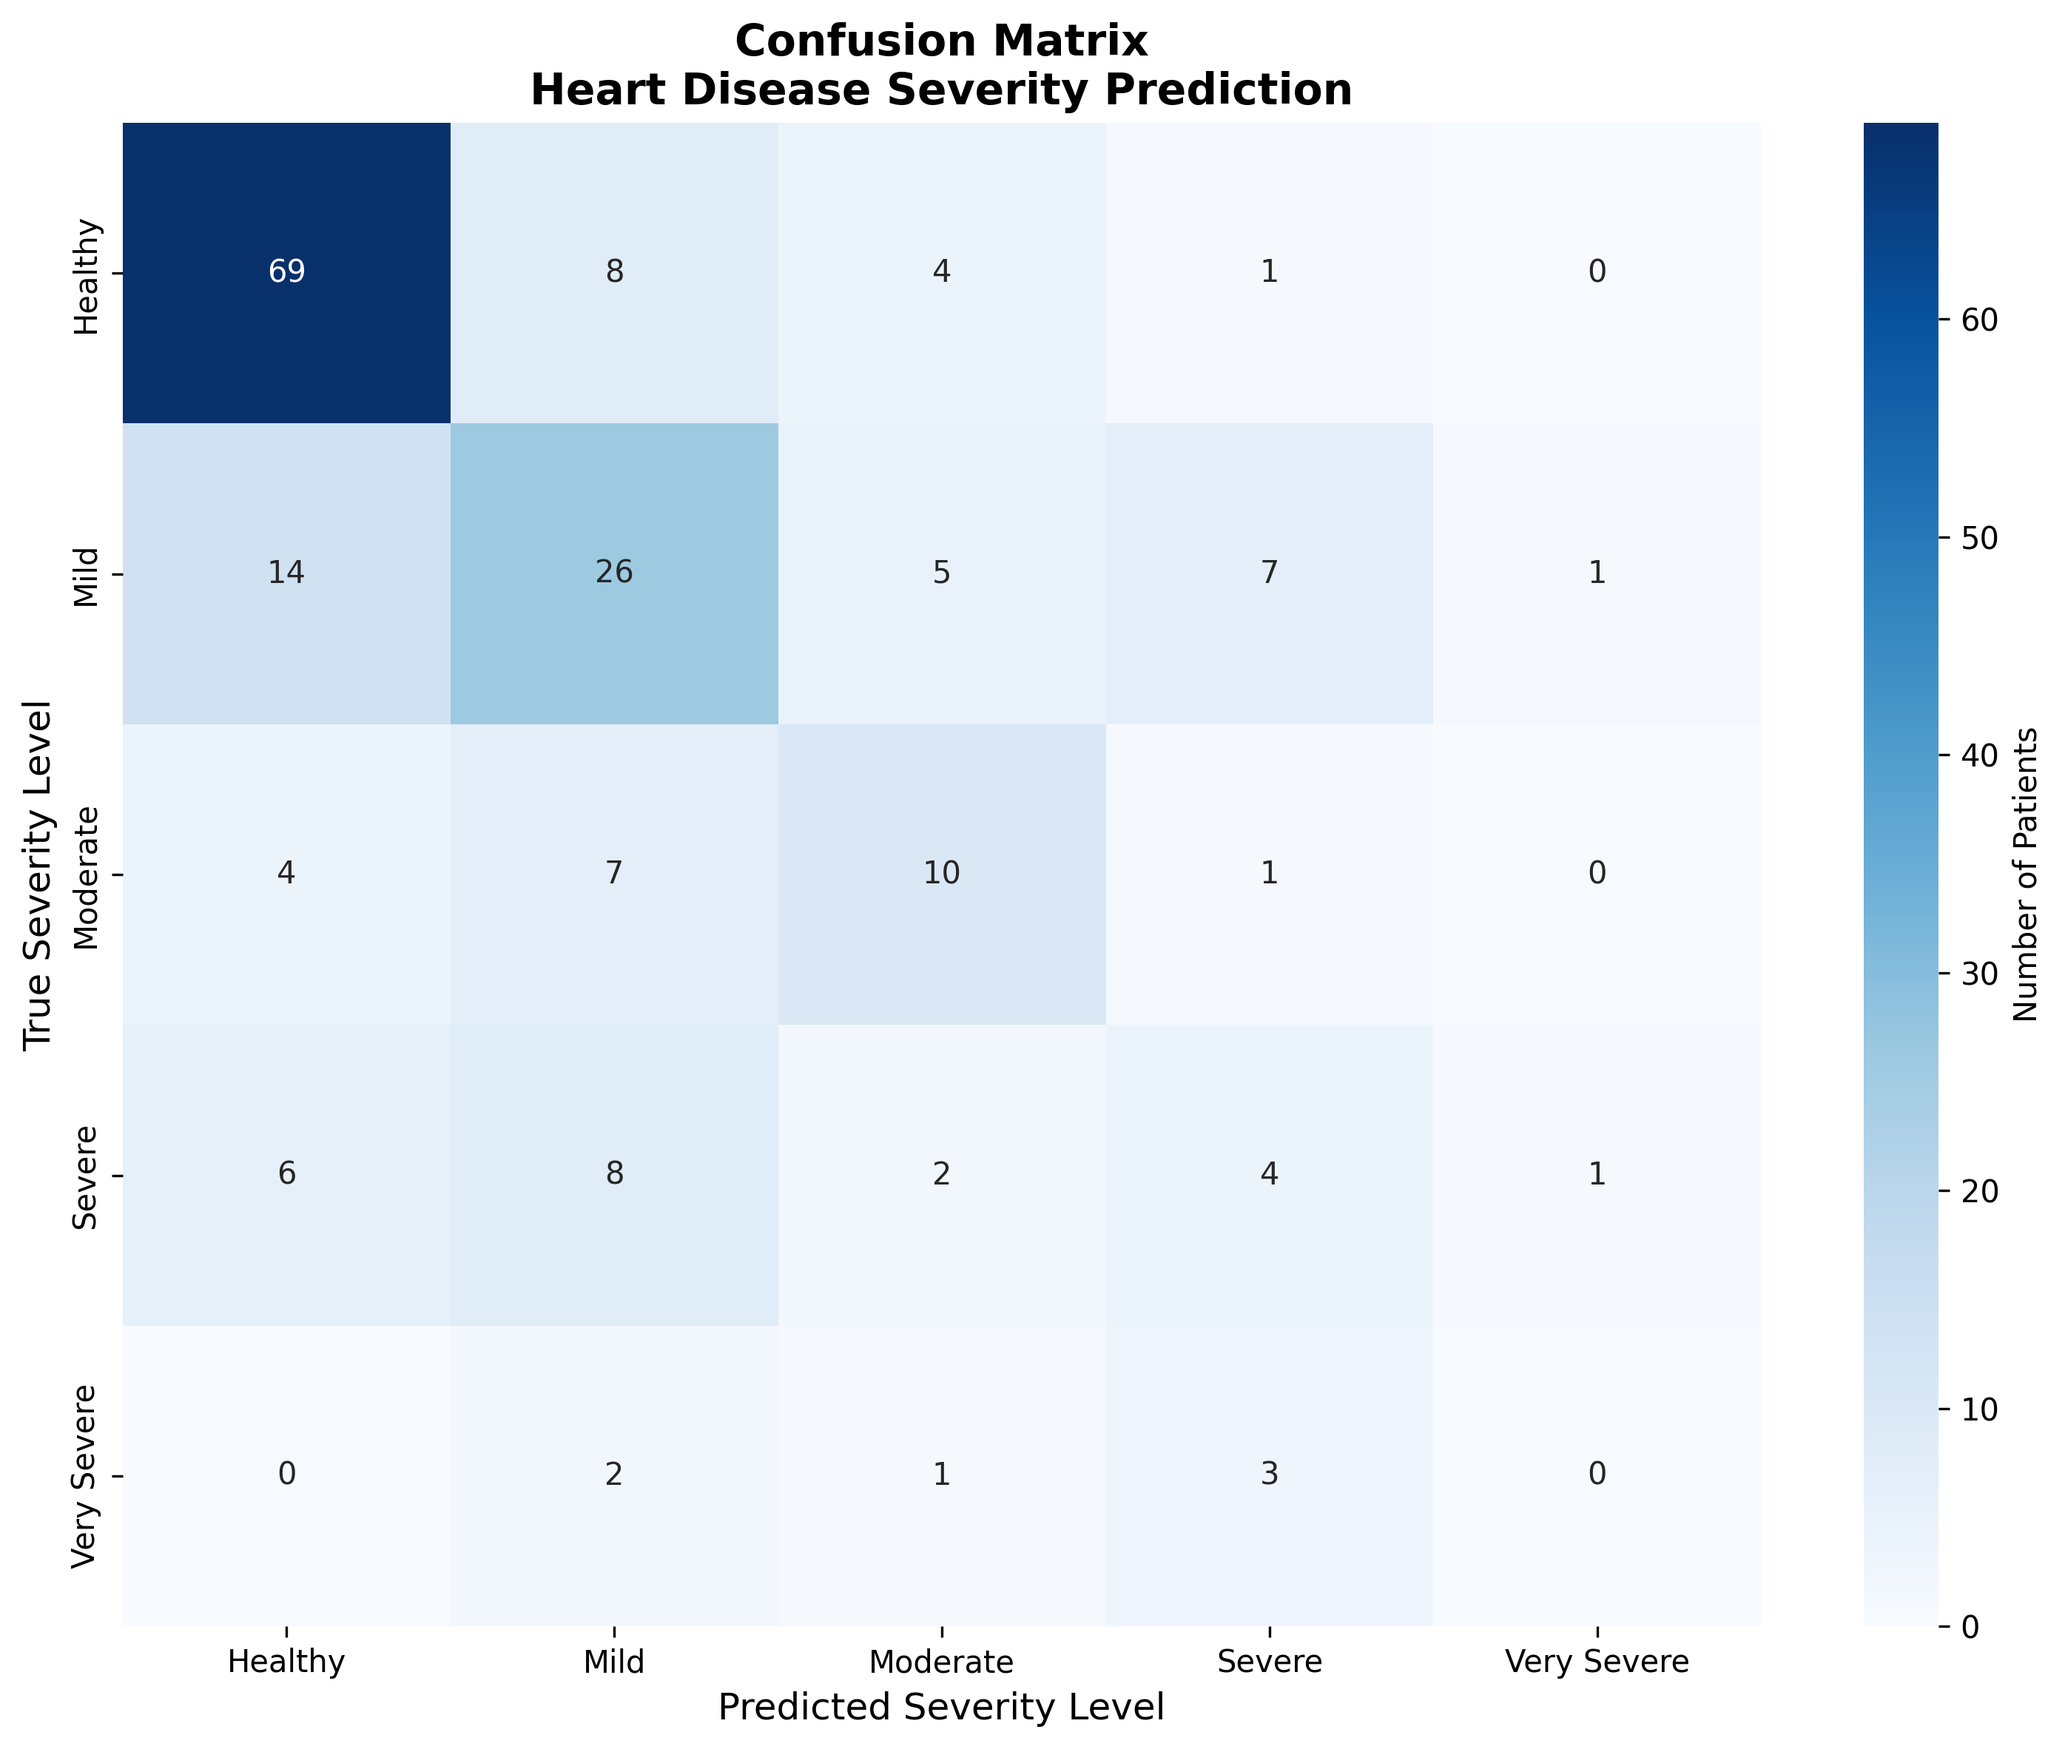
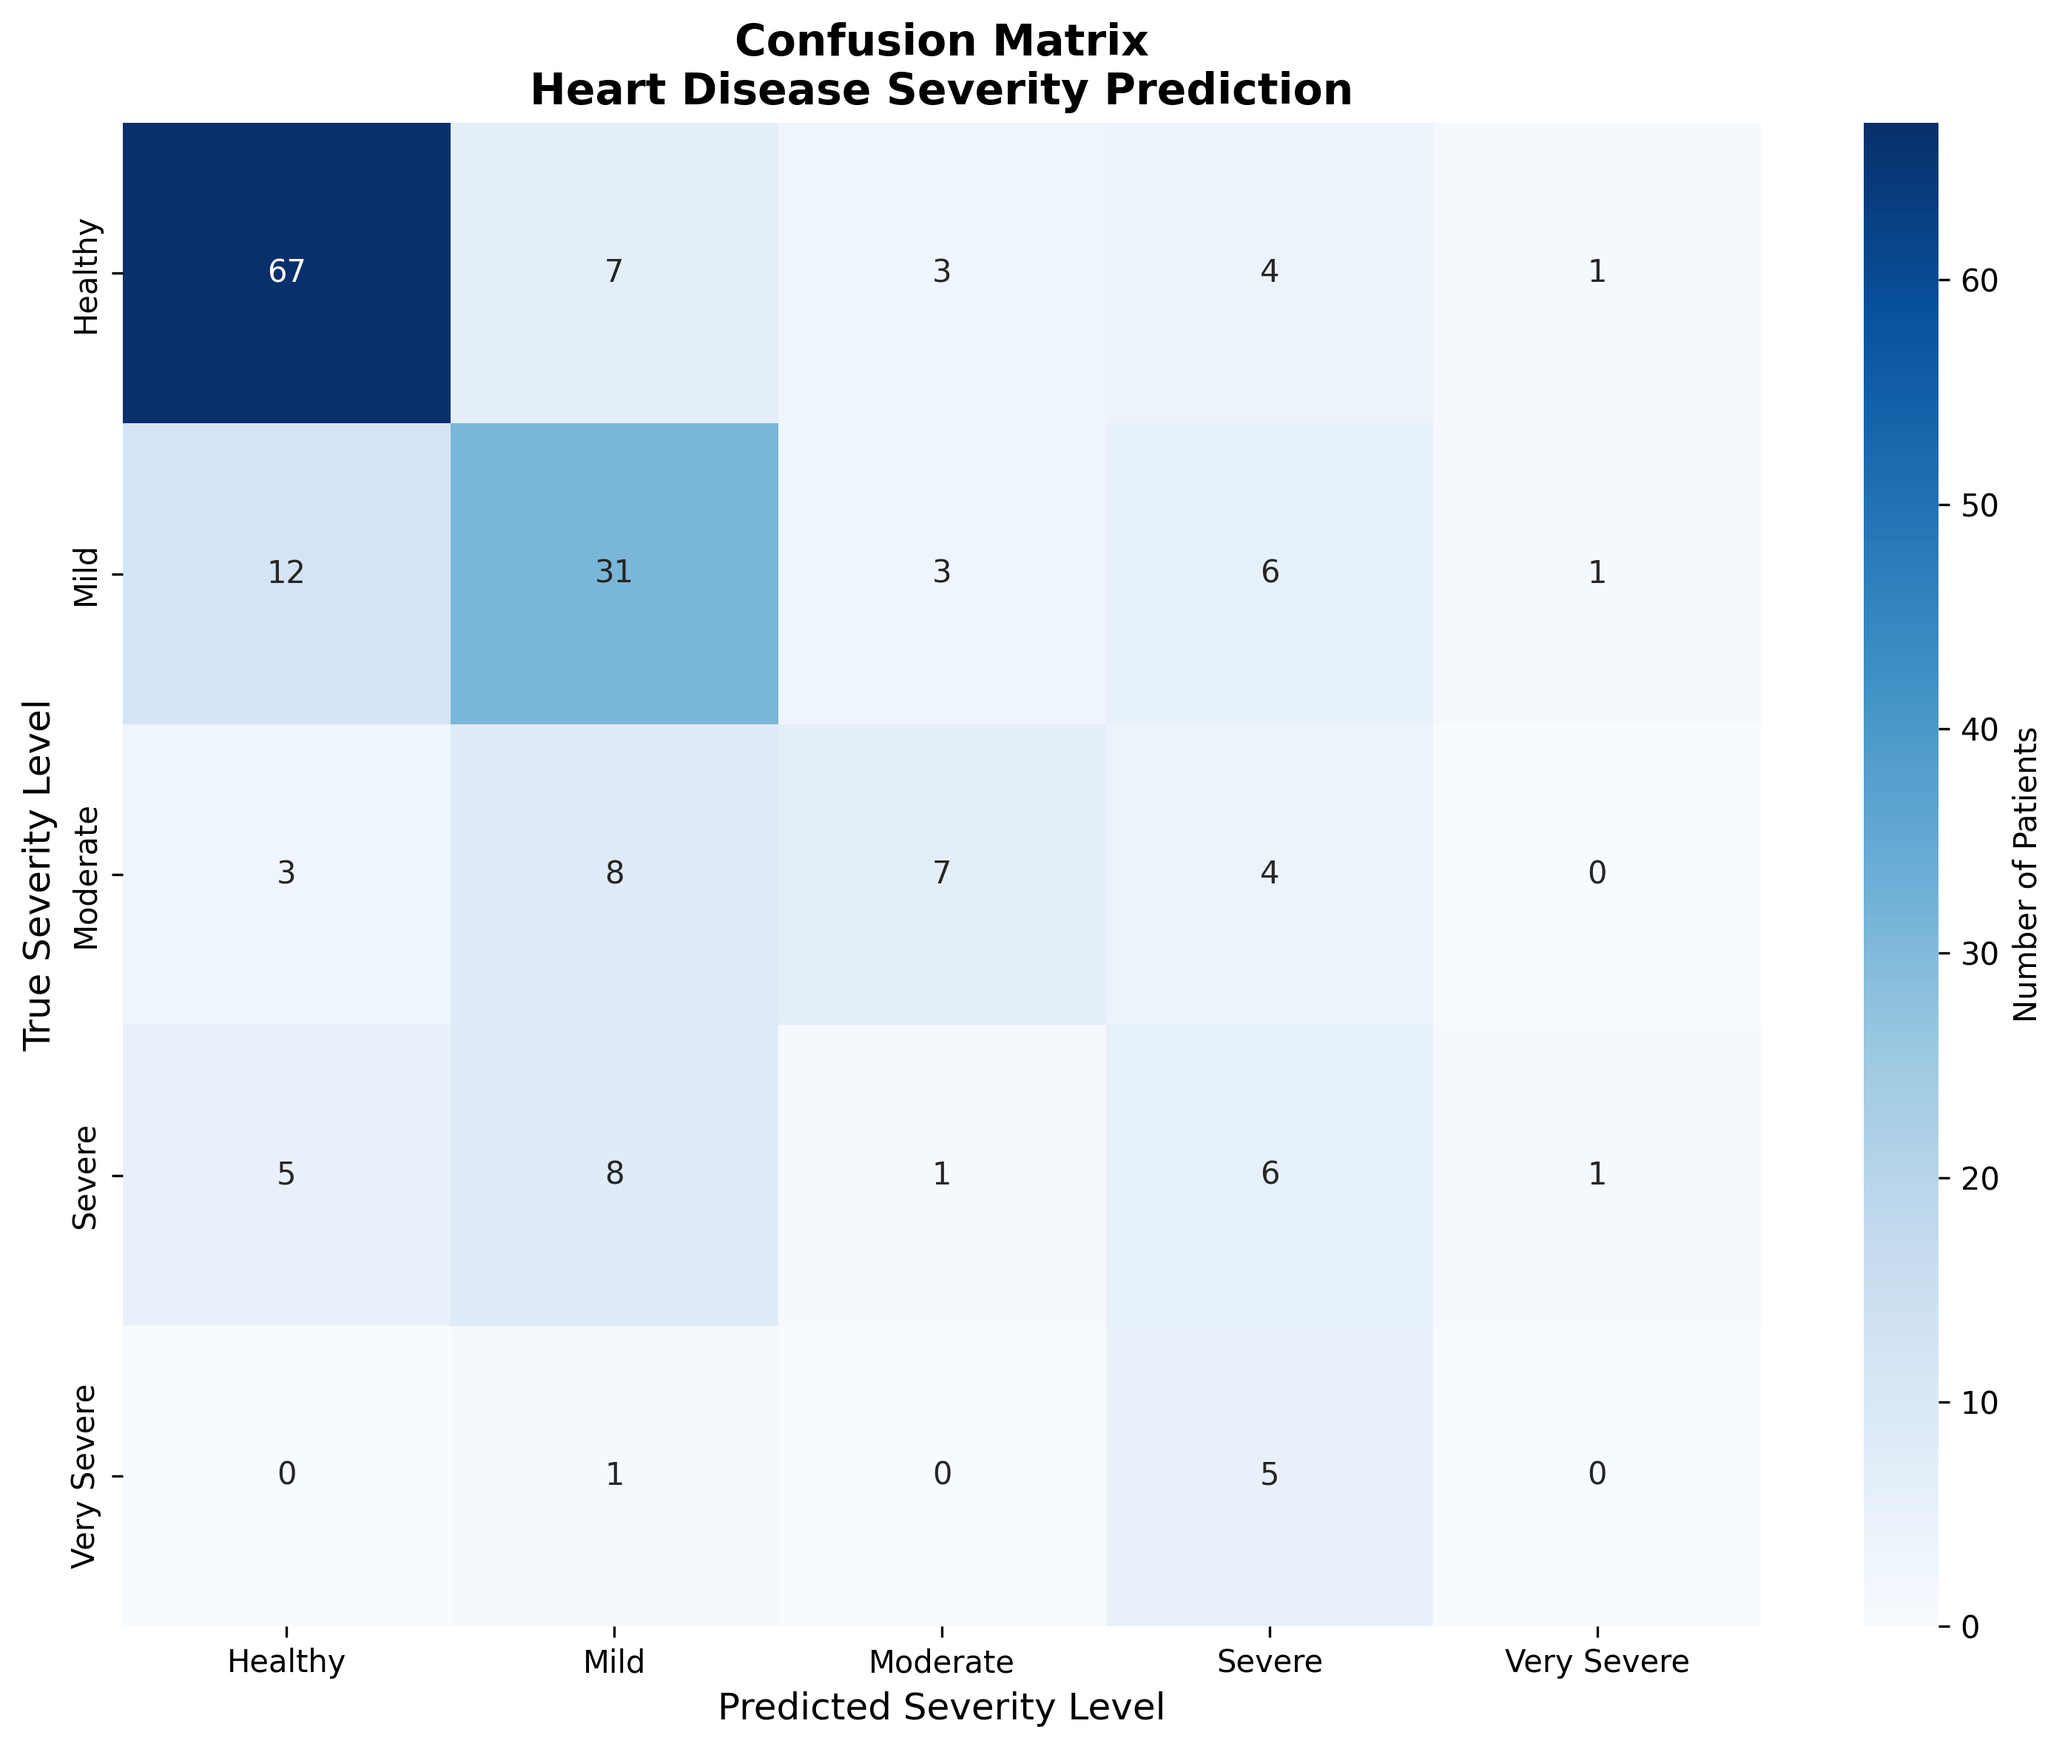
pimpri prompt

diff --git a/frontend/src/App.js b/frontend/src/App.js
@@ -4,6 +4,7 @@ import { BrowserRouter, Routes, Route, NavLink } from "react-router-dom";
 import Home from "./pages/Home";
 import ClinicalPrediction from "./pages/ClinicalPrediction";
 import AuditDashboard from "./pages/AuditDashboard";
+import EvidenceVerifier from "./pages/EvidenceVerifier";
 
 const API_BASE = "http://127.0.0.1:8000";
 
@@ -162,6 +163,26 @@ function App() {
             >
               ⛓ Blockchain Audit Trail
             </NavLink>
+
+            <NavLink
+              to="/verify"
+              className={({ isActive }) =>
+                `nav-link ${isActive ? "active" : ""}`
+              }
+              style={({ isActive }) => ({
+                padding: "8px 14px",
+                borderRadius: "8px",
+                textDecoration: "none",
+                fontSize: "13px",
+                fontWeight: "500",
+                color: isActive ? "#fff" : "var(--text-secondary)",
+                background: isActive ? "rgba(99, 102, 241, 0.2)" : "transparent",
+                border: isActive ? "1px solid rgba(99, 102, 241, 0.4)" : "1px solid transparent",
+                transition: "all 0.2s"
+              })}
+            >
+              🛡 Evidence Verifier
+            </NavLink>
           </nav>
 
           {/* RBAC Role Switcher & System Status */}
@@ -300,6 +321,7 @@ function App() {
             <Route path="/" element={<Home activeUser={currentUser} apiBase={API_BASE} />} />
             <Route path="/predict" element={<ClinicalPrediction activeUser={currentUser} apiBase={API_BASE} />} />
             <Route path="/audit" element={<AuditDashboard activeUser={currentUser} apiBase={API_BASE} />} />
+            <Route path="/verify" element={<EvidenceVerifier activeUser={currentUser} apiBase={API_BASE} />} />
           </Routes>
         </main>
 

diff --git a/backend/app/blockchain/access_control.py b/backend/app/blockchain/access_control.py
@@ -91,7 +91,8 @@ def build_default_users() -> Dict[str, User]:
                 Permission.VIEW_PATIENT_DATA,
                 Permission.EDIT_PATIENT_DATA,
                 Permission.REQUEST_PREDICTION,
-                Permission.QUERY_KNOWLEDGE_BASE
+                Permission.QUERY_KNOWLEDGE_BASE,
+                Permission.VIEW_AUDIT_LOGS
             }
         ),
         User(
@@ -102,7 +103,8 @@ def build_default_users() -> Dict[str, User]:
                 Permission.VIEW_PATIENT_DATA,
                 Permission.EDIT_PATIENT_DATA,
                 Permission.REQUEST_PREDICTION,
-                Permission.QUERY_KNOWLEDGE_BASE
+                Permission.QUERY_KNOWLEDGE_BASE,
+                Permission.VIEW_AUDIT_LOGS
             }
         ),
         User(
@@ -111,7 +113,9 @@ def build_default_users() -> Dict[str, User]:
             role=UserRole.NURSE,
             permissions={
                 Permission.VIEW_PATIENT_DATA,
-                Permission.EDIT_PATIENT_DATA
+                Permission.EDIT_PATIENT_DATA,
+                Permission.QUERY_KNOWLEDGE_BASE,
+                Permission.VIEW_AUDIT_LOGS
             }
         ),
         User(
